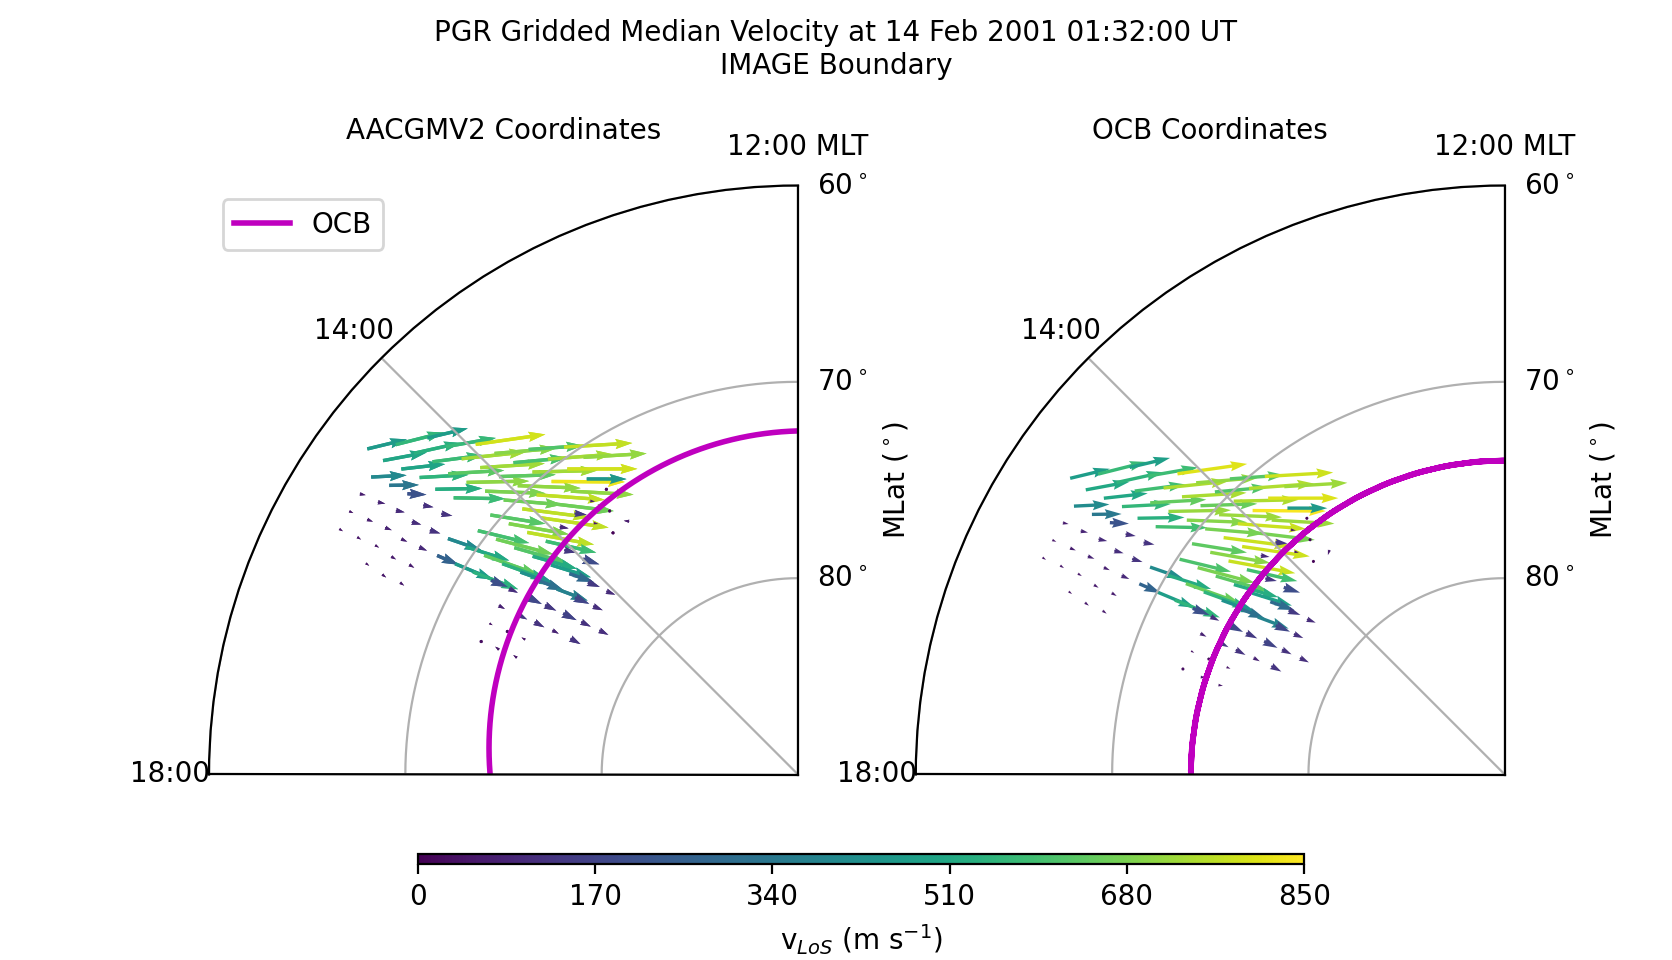
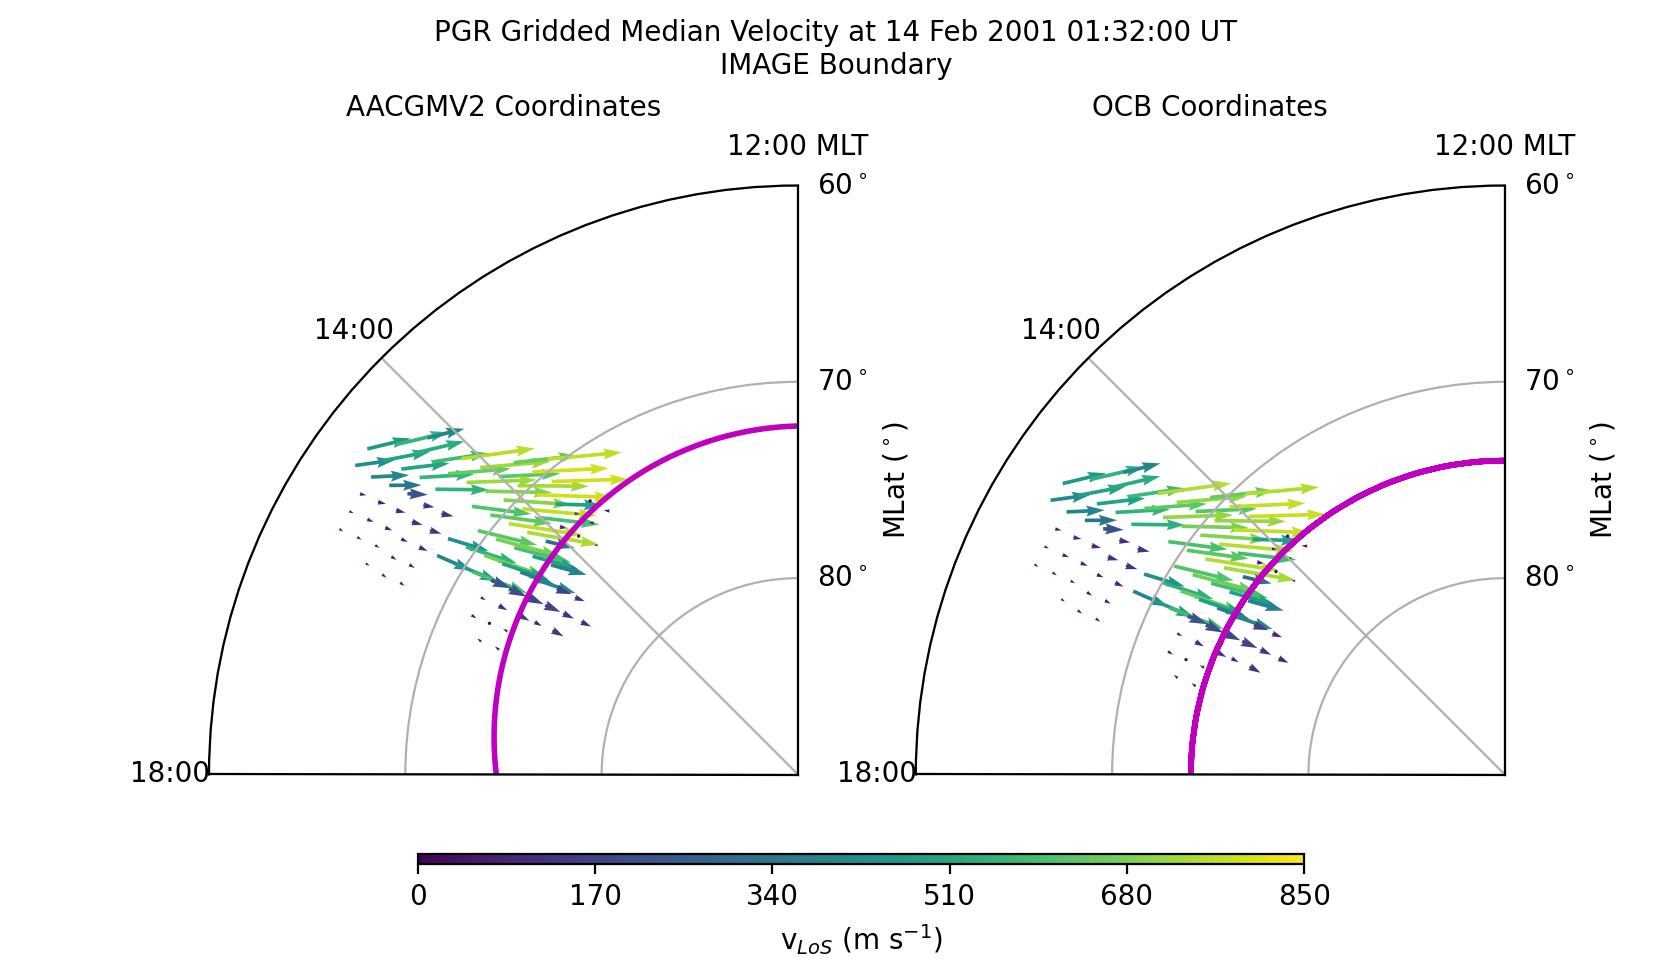
DOC: updated SuperDARN example
Updated the SuperDARN example by:
- updating the pydarn call,
- updating the OCB output,
- updating the OCB figure,
- adding a DualBoundary example, and
- adding a DualBoundary example figure.

diff --git a/docs/examples/ex_vector.rst b/docs/examples/ex_vector.rst
@@ -28,7 +28,7 @@ other grid file), use the following commands.
     import pydarn
 
     filename = '20010214.0100.00.pgr.grd'
-    sd_read = pydarn.SDarnRead(filename)
+    sd_read = pydarn.SuperDARNRead(filename)
     grd_data = sd_read.read_grid()
     print(len(grd_data))
 
@@ -44,7 +44,7 @@ Single Boundary Transformation
 If using only a single boundary with vector data, it is highly recommended that
 you use an OCB or OCB proxy rather than an EAB or EAB proxy.  This example shows
 how the data period and hemisphere automatically select the most trusted OCB
-data set available.  UPDATE HERE WITH NEW IMAGE DATA.
+data set available.
 
 ::
 
@@ -59,21 +59,21 @@ data set available.  UPDATE HERE WITH NEW IMAGE DATA.
     ocb = ocbpy.OCBoundary(stime=stime, etime=etime)
     print(ocb)
 
-    OCBoundary file: ~/ocbpy/ocbpy/boundaries/si13_north_circle.ocb
+    OCBoundary file: ~/ocbpy/ocbpy/boundaries/image_north_circle.ocb
     Source instrument: IMAGE
     Boundary reference latitude: 74.0 degrees
 
     12 records from 2001-02-14 01:33:24 to 2001-02-14 01:55:54
 
     YYYY-MM-DD HH:MM:SS Phi_Centre R_Centre R
-    ------------------------------------------
-    2001-02-14 01:33:24 162.58 1.41 16.16
-    2001-02-14 01:35:26 176.90 1.77 16.16
-    2001-02-14 01:53:51 311.82 2.51 14.44
-    2001-02-14 01:55:54 193.16 2.67 15.63
+    ----------------------------------------------------------------------------
+    2001-02-14 01:33:24 169.01 1.94 15.85
+    2001-02-14 01:35:26 170.18 1.56 16.47
+    2001-02-14 01:53:51 239.81 1.57 15.70
+    2001-02-14 01:55:54 210.02 2.09 15.89
 
     Uses scaling function(s):
-    circular(**{})
+    ocbpy.ocb_correction.circular(**{})
 
 
 To convert this vector into OCB coordinates, we first need to pair the
@@ -83,7 +83,7 @@ each case is appropriate.
 ::
     
     ocb.get_next_good_ocb_ind()
-    print(ocb.dtime[ocb.rec_ind]-stime)
+    print(ocb.dtime[ocb.rec_ind] - stime)
 
     0:01:24
 
@@ -92,7 +92,7 @@ If you are using a different file, you can use
 :py:func:`~ocbpy.cycle_boundary.match_data_ocb` to find an appropriate pairing,
 as illustrated in previous examples.
 
-Now that the data are paired, we can initialize an
+Now that the data are paired, we can initialise a
 :py:class:`ocbpy.ocb_scaling.VectorData` object.  To do this, however, we need
 the SuperDARN LoS velocity data in North-East-Vertical coordinates.  SuperDARN
 grid files determine the median magnitude and direction of Line-of-Sight (LoS)
@@ -117,7 +117,7 @@ between the two, use the following routine.
     # Calculate the magnetic local time from the magnetic longitude
     mlt = aacgmv2.convert_mlt(grd_data[0]['vector.mlon'], stime)
 
-    # Initialize the vector data object
+    # Initialise the vector data object
     pgr_vect = ocbpy.ocb_scaling.VectorData(
         dat_ind, ocb.rec_ind, grd_data[0]['vector.mlat'], mlt,
         aacgm_n=drifts_n, aacgm_e=drifts_e,
@@ -139,11 +139,11 @@ region is plotted.
 
 ::
 
-    # Initialize the figure and axes
-    fig = plt.figure(figsize([8.36, 4.8]))
+    # Initialise the figure and axes
+    fig = plt.figure(figsize=([8.36, 4.8]))
     fig.subplots_adjust(wspace=.2, top=.95, bottom=.05)
-    axa = fig.add_subplot(1,2,1, projection='polar')
-    axo = fig.add_subplot(1,2,2, projection='polar')
+    axa = fig.add_subplot(1, 2, 1, projection='polar')
+    axo = fig.add_subplot(1, 2, 2, projection='polar')
 
     # Format the axes
     xticks = np.linspace(0, 2.0 * np.pi, 9) 
@@ -171,8 +171,9 @@ region is plotted.
     # Get and plot the OCB
     xmlt = np.arange(0.0, 24.1, .1)
     blat, bmlt = ocb.revert_coord(ocb.boundary_lat, xmlt)
-    axa.plot(ocbpy.ocb_time.hr2rad(bmlt), 90.0-blat , 'm-', lw=2, label='OCB') 
-    axo.plot(xmlt, 90.0-np.full(shape=xmlt.shape, fill_value=ocb.boundary_lat),
+    axa.plot(ocbpy.ocb_time.hr2rad(bmlt), 90.0 - blat , 'm-', lw=2, label='OCB')
+    axo.plot(ocbpy.ocb_time.hr2rad(xmlt),
+             90.0 - np.full(shape=xmlt.shape, fill_value=ocb.boundary_lat),
              'm-', lw=2, label='OCB')
 
     # Get and plot the gridded LoS velocities.  The quiver plot requires these
@@ -191,8 +192,8 @@ region is plotted.
     vmax = 850.0
     vnorm = mpl.colors.Normalize(vmin, vmax)
 
-    axa.quiver(ocbpy.ocb_time.hr2rad(mlt), 90.0 - grd_data[i]['vector.mlat'],
-               adrift_x, adrift_y, grd_data[i]['vector.vel.median'], norm=vnorm)
+    axa.quiver(ocbpy.ocb_time.hr2rad(mlt), 90.0 - grd_data[0]['vector.mlat'],
+               adrift_x, adrift_y, grd_data[0]['vector.vel.median'], norm=vnorm)
     axo.quiver(ocbpy.ocb_time.hr2rad(pgr_vect.ocb_mlt), 90.0 - pgr_vect.ocb_lat,
                odrift_x, odrift_y, pgr_vect.ocb_mag, norm=vnorm)
 
@@ -211,5 +212,120 @@ speeds inside the OCB are slow while those outside (in the auroral oval) are
 fast.  The location and direction of the vectors have only shifted to maintain
 their position relative to the OCB.  The magnitude has also been scaled, but
 the influence is small.
+
+.. image:: ../figures/example_superdarn_grid_vel.png
+
+Dual Boundary Transformation
+----------------------------
+
+Now let us transform the same data using both the EAB and OCB.
+
+::
+
+   dual = ocbpy.DualBoundary(stime=stime, etime=etime)
+   print(dual)
+
+   Dual Boundary data
+   11 good boundary pairs from 2001-02-14 01:33:24 to 2001-02-14 01:55:54
+   Maximum  boundary difference of 60.0 s
+
+   EABoundary file: ~/ocbpy/ocbpy/boundaries/image_north_circle.eab
+   Source instrument: IMAGE
+   Boundary reference latitude: 64.0 degrees
+
+   12 records from 2001-02-14 01:33:24 to 2001-02-14 01:55:54
+
+   YYYY-MM-DD HH:MM:SS Phi_Centre R_Centre R
+   -----------------------------------------------------------------------------
+   2001-02-14 01:33:24 26.27 3.24 26.76
+   2001-02-14 01:35:26 26.54 3.59 26.53
+   2001-02-14 01:53:51 9.72 4.20 26.37
+   2001-02-14 01:55:54 13.46 3.06 26.78
+
+   Uses scaling function(s):
+   ocbpy.ocb_correction.circular(**{})
+
+   OCBoundary file: ~/ocbpy/ocbpy/boundaries/image_north_circle.ocb
+   Source instrument: IMAGE
+   Boundary reference latitude: 74.0 degrees
+
+   12 records from 2001-02-14 01:33:24 to 2001-02-14 01:55:54
+
+   YYYY-MM-DD HH:MM:SS Phi_Centre R_Centre R
+   -----------------------------------------------------------------------------
+   2001-02-14 01:33:24 169.01 1.94 15.85
+   2001-02-14 01:35:26 170.18 1.56 16.47
+   2001-02-14 01:53:51 239.81 1.57 15.70
+   2001-02-14 01:55:54 210.02 2.09 15.89
+
+   Uses scaling function(s):
+   ocbpy.ocb_correction.circular(**{})
+
+
+For the :py:class:`~ocbpy._boundary.DualBoundary` class, we don't need to
+initialise the first good record index.  However, if you are using a different
+file, you should use :py:func:`~ocbpy.cycle_boundary.match_data_ocb` to find an
+appropriate pairing before continuing.
+
+Because we are paired, we can re-initialise a
+:py:class:`ocbpy.ocb_scaling.VectorData` object.  To do this, however, we need
+the SuperDARN LoS velocity data in North-East-Vertical coordinates.  SuperDARN
+grid files determine the median magnitude and direction of Line-of-Sight (LoS)
+Doppler velocities.  For each period of time, the velocity is expressed in terms
+of a median vector magnitude and an angle off of magnetic north.  To convert
+between the two, use the following routine.
+
+
+::
+
+    # Re-initialise the vector data object
+    pgr_vect = ocbpy.ocb_scaling.VectorData(
+        dat_ind, dual.rec_ind, grd_data[0]['vector.mlat'], mlt,
+        aacgm_n=drifts_n, aacgm_e=drifts_e,
+        aacgm_mag=grd_data[0]['vector.vel.median'], dat_name='LoS Velocity',
+        dat_units='m s$^{-1}$', scale_func=ocbpy.ocb_scaling.normal_curl_evar)
+
+    # Calculate the dual-boundary coordinates of the vector data
+    pgr_vect.set_ocb(dual)
+
+
+Now let us update the current figure with the new data.
+
+::
+
+    # Remove the data from the OCB coordinate axis
+    axa.lines.pop()  # Remove the OCB
+    axo.lines.pop()  # Remove the OCB
+    axo.collections.pop()  # Remove the vectors
+    axo.set_title('Dual Boundary Coordinates', fontsize='medium')
+
+    # Get and plot the OCB and EAB
+    xmlt = np.arange(0.0, 24.1, .1)
+    dual.get_aacgm_boundary_lats(xmlt, rec_ind=dual.rec_ind, overwrite=True)
+    axa.plot(ocbpy.ocb_time.hr2rad(
+        dual.ocb.aacgm_boundary_mlt[dual.ocb.rec_ind]),
+             90.0 - dual.ocb.aacgm_boundary_lat[dual.ocb.rec_ind], 'm-',
+             lw=2, label='OCB')
+    axa.plot(ocbpy.ocb_time.hr2rad(
+        dual.eab.aacgm_boundary_mlt[dual.eab.rec_ind]),
+             90.0 - dual.eab.aacgm_boundary_lat[dual.eab.rec_ind], '-',
+             lw=2, color='purple', label='EAB')
+    axo.plot(ocbpy.ocb_time.hr2rad(xmlt),
+             90.0 - np.full(shape=xmlt.shape, fill_value=dual.ocb.boundary_lat),
+             'm-', lw=2, label='OCB')
+    axo.plot(ocbpy.ocb_time.hr2rad(xmlt),
+             90.0 - np.full(shape=xmlt.shape, fill_value=dual.eab.boundary_lat),
+             '-', lw=2, color='purple', label='EAB')
+
+    # Add the dual-boundary quivers
+    axo.quiver(ocbpy.ocb_time.hr2rad(pgr_vect.ocb_mlt), 90.0 - pgr_vect.ocb_lat,
+               odrift_x, odrift_y, pgr_vect.ocb_mag, norm=vnorm)
+
+    # Add a legend
+    axa.legend(fontsize='medium', loc=2, bbox_to_anchor=(-.3, 1.0))
+
+After displaying or saving this file, the results shoud look like the figure
+shown below.  The biggest difference between the dual and single boundary
+results are the locations in the auroral oval.
 
 .. image:: ../figures/example_superdarn_grid_vel.png
